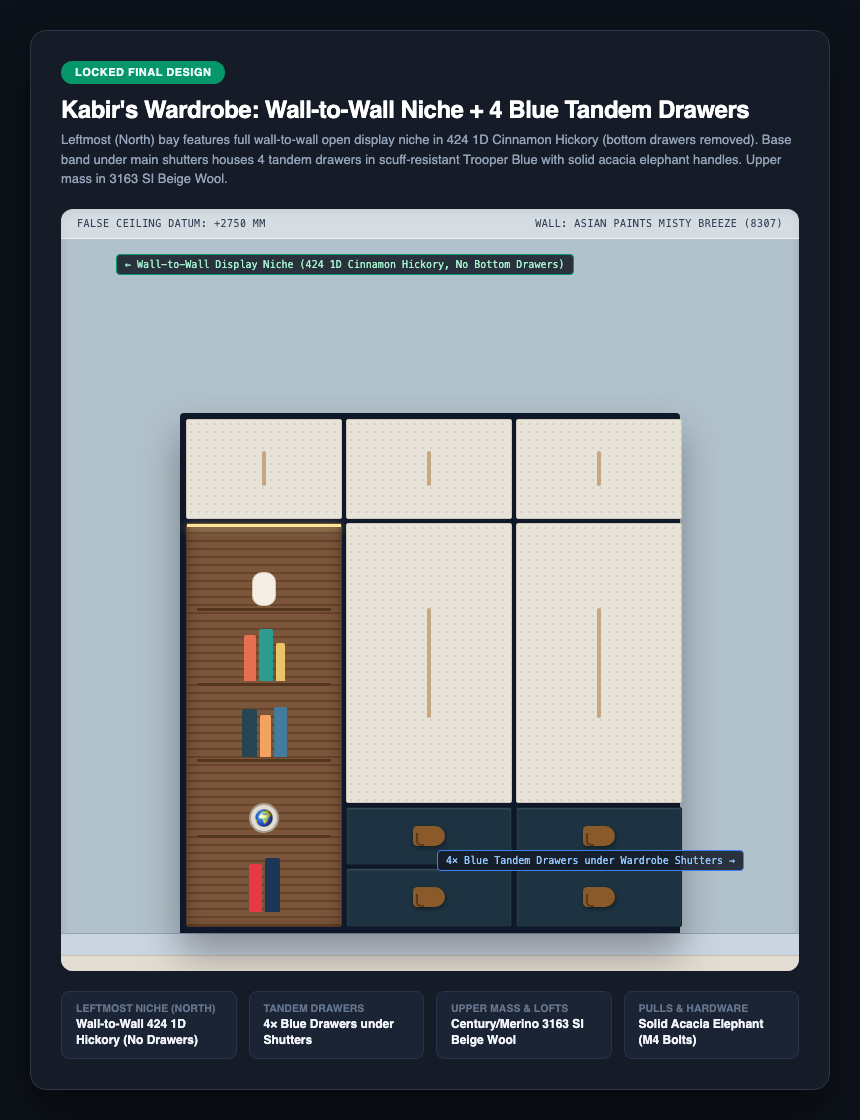
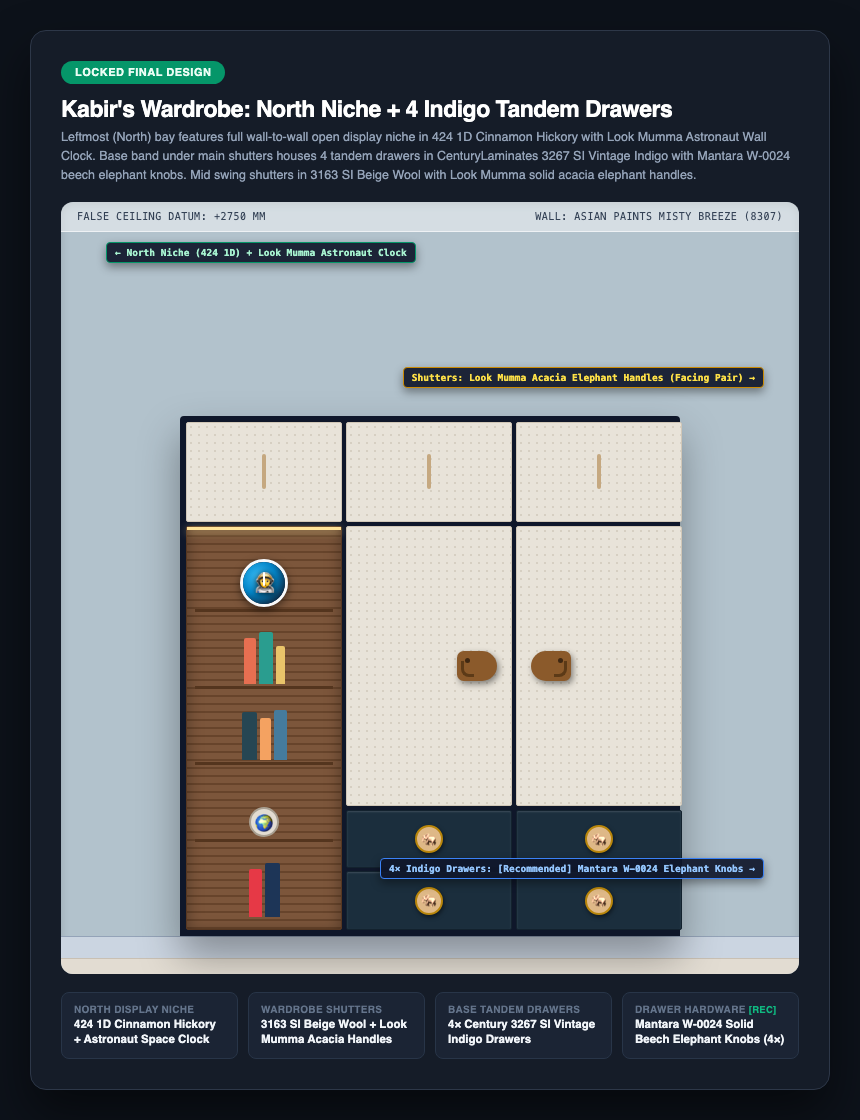
sync: update Project U notes (2026-11-06 22:32:08)

diff --git a/content/rooms/kabir-room.md b/content/rooms/kabir-room.md
@@ -4,7 +4,7 @@ aliases: [rooms-br02, br-02, kabirs-room, u-br02]
 tags: [u-setup, rooms, kids-room, study]
 status: evergreen
 created: 2026-10-10
-updated: 2026-10-31
+updated: 2026-11-06
 ---
 
 [[index|← Back to Home Overview]]
@@ -20,15 +20,17 @@ Dedicated study, reading, and creative play space for Kabir (age 6, Grade 1 at K
 
 ## Kabir's Room Hardware & Furnishings
 
-| Need | Tier 1: High-Quality VFM | Tier 2: High-Quality Unconstrained | Top Failure Mode & Reddit Insight |
-| :--- | :--- | :--- | :--- |
-| **KBR Wardrobe (Homz Locked)** | **[Recommended]** **Locked Design: North Niche + Indigo Tandem Drawers:** Entire wardrobe and lofts in CenturyLaminates `3163 SI Beige Wool`; leftmost (North) bay features full wall-to-wall open `424 1D Cinnamon Hickory` display niche beside study desk (bottom drawers removed); base band under wardrobe shutters houses 4 tandem drawers in CenturyLaminates `3267 SI Vintage Indigo` (scuff protection) with Look Mumma solid acacia elephant handles. | [Greenlam AFX Neutral + Solid Woodgrain Niche + FENIX](https://www.google.com/search?q=Greenlam+AFX+Neutral+%2B+Oak+Niche+%2B+FENIX) (Century Club Prime, Blum BLUMOTION soft-close channels, ~₹1.85L) / [Merino Luvih Super-Matt + Blum LEGRABOX](https://www.google.com/search?q=Merino+Luvih+Super-Matt+%2B+Blum+LEGRABOX) (Finger-safe soft-close dampers, ~₹1.75L) | Cartoon laminates date poorly by age 9; grounding the base in scuff-resistant `3267 SI` Vintage Indigo protects against kicks while `3163 SI` Beige Wool maintains whole-house Japandi continuity and single-brand Century procurement. |
-| **Child Daybed / Sleeper** | [Orange Tree / Spin Solid Hardwood Daybed with Trundle](https://www.google.com/search?q=Orange+Tree+Solid+Wood+Daybed+with+Trundle) (Kiln-dried solid wood, `36×75 in` full single mattress + trundle, ~₹48,000) / [IKEA HEMNES Day-Bed Frame with 3 Drawers](https://www.ikea.com/in/en/p/hemnes-day-bed-frame-with-3-drawers-white-70349327/) (₹36,990) | **[Recommended]** [Alankaram Junior Solid Teak Daybed with Trundle](https://www.google.com/search?q=Alankaram+Junior+Teak+Daybed+with+Trundle) (Solid seasoned teak, `36×75 in` full single mattress sizing for age 6–12 sleep transition, rounded child-safe bullnose edges, pull-out trundle, ₹72,000) | Reject `Boingg!` (uses 18mm MDF/HDF and pine, not teak) and `IKEA BRIMNES` (particleboard slats snap under child jumping). Full `36×75 in` single mattress sizing allows an adult to lie comfortably beside Kabir during his age 7–9 transition. |
-| **Kids Reading Pouffe / Sleeper** | **[Recommended]** [IKEA KOMPISHÄNG Mattress/Pouffe (80×200 cm)](https://www.ikea.com/in/en/p/kompishaeng-mattress-pouffe-beige-red-60628767/) (13 cm pocket springs, tri-fold pouffe 80×68 cm, ₹12,990) / [IKEA SLÄKT Folding Mattress](https://www.ikea.com/in/en/p/slaekt-folding-mattress-grey-90362964/) (Pouf/floor bed, washable cover, 62×193 cm, ₹8,990) | [BoConcept Xtra Footstool with Sleeping Function](https://www.boconcept.com/en-in/p/xtra/603030-603011.html) (70×70 cm Danish ottoman, concealed steel folding frame, 70×200 cm raised bed, ₹85,950) / [Karup Design Hippo Chair-Futon](https://www.google.com/search?q=Karup+Design+Hippo+Chair-Futon) (Danish Japandi design, folds from low armchair to 90×200 cm floor bed, ~₹48,000) | KOMPISHÄNG sleeps on floor at 1/7th price; BoConcept lifts sleeper 42cm off tile on steel frame in bespoke Danish upholstery, but requires adult to unfold (24 kg). |
-| **Ergonomic Study Desk** | **[Recommended]** [IKEA BERGLÄRKA Tiltable Desk](https://www.google.com/search?q=IKEA+BERGL%C3%84RKA+Tiltable+Desk) (Manual crank 52–75cm, tiltable top, EN 17191 child-safe, ₹14,990) / [IKEA PIPLÄRKA Adjustable Desk](https://www.ikea.com/in/en/p/piplaerka-desk-tiltable-white-50530752/) (50–74 cm height in 5 steps, compact 80×63 cm, ₹7,990) | [Moll Champion Ergonomic Children Desk](https://moll-funktion.com/en/product/champion/) (German precision gas lift, split tilt desk top, ~₹85,000) / [Moll Winner Compact Children Desk](https://moll-funktion.com/en/product/winner/) (10-position manual tilt, adjustable 53–82 cm, cable duct, ~₹68,000) | Motorized sit-stand desks have high minimum heights ($\ge 62\text{ cm}$) and pinch hazards; manual child-certified desks drop to 52 cm. |
-| **Growth Desk Chair** | **[Recommended]** [IKEA LOBERGET / SIBBEN Children Desk Chair](https://www.ikea.com/in/en/p/loberget-sibben-childrens-desk-chair-white-s79337746/) (Adjustable seat height 32–43 cm, zero rolling wheels, ₹2,490) + [Ergonomic Footrest Cushion](https://www.amazon.in/dp/B08L6XB7WN) (₹1,499) | **[Recommended Growth]** [IKEA VIMUND Children Ergonomic Chair](https://www.ikea.com/in/en/p/vimund-childrens-desk-chair-bright-turquoise-30424352/) (Pressure-sensitive auto-locking brake castors, adjustable seat depth & back, ₹6,990) / [Moll Maximo 15](https://moll-funktion.com/en/product/maximo/) (~₹45,000) | Free-rolling swivel chairs turn into toys during homework; VIMUND pressure-sensitive castors lock automatically when seated. Ensure feet rest flat on floor or footrest. |
-| **South Wall 3D World Map** | **[Recommended]** [Woodsify 3D Wooden World Map Multicolor (Non-LED, Size L)](https://www.woodsify.com/products/3d-wooden-world-map-multicolour?variant=42093391315150) (150×90 cm, birch plywood, ₹9,540) / [WoodScape 3D Multilayer Birch Map](https://www.google.com/search?q=WoodScape+3D+Multilayer+Birch+Map) (140×85 cm, natural wood stains, ₹8,990) | [Enjoy The Wood 3D Birch Map with Push Pins](https://enjoythewood.com/products/3d-wooden-world-map-multicolor) (~$249 / ₹21,000, non-toxic stains, flag pins) / [MiMi Innovations 3D Solid Hardwood Topographic World Map](https://www.google.com/search?q=MiMi+Innovations+3D+Hardwood+Topographic+World+Map) (Hand-stained oak/walnut relief, ~₹26,000) | Direct adhesive tape ruins paint during removal; mount onto 6mm BWP ply backer board with French cleats. Detail in [[art-wall-decor]]. |
-| **Wardrobe & Tandem Pulls (Wood Elephant)** | **[Recommended]** [Look Mumma Hand-Carved Acacia Elephant Handles](https://lookmumma.com) (Natural waxed solid acacia wood, 96mm CC / 120×95mm, through-bolted with M4 machine screws into 18mm BWP ply, ₹1,450 / pair) / [Pinch of Pretty Wood Pulls](https://pinchofpretty.com) (~₹2,999) | [Homz Bespoke Hand-Carved Teak Elephant Pulls](https://www.google.com/search?q=Hand-Carved+Teak+Elephant+Bar+Pulls) (Crafted from CP teak offcuts, ~₹1,600 labor) / [Mantara W-0024 Beech Knob](https://mantara.in/products/mantara-w-0024-elephant) (Solid beech, 50mm, ₹649 ea) | Soft pine/MDF decorative handles split under child pulling force; solid acacia handles through-bolted with M4 machine bolts into 18mm BWP ply will never pull out. |
+| Need                                        | Tier 1: High-Quality VFM                                                                                                                                                                                                                                                                                                                                                                                                                                        | Tier 2: High-Quality Unconstrained                                                                                                                                                                                                                                                                                                                                                        | Top Failure Mode & Reddit Insight                                                                                                                                                                                                                |
+| :------------------------------------------ | :-------------------------------------------------------------------------------------------------------------------------------------------------------------------------------------------------------------------------------------------------------------------------------------------------------------------------------------------------------------------------------------------------------------------------------------------------------------- | :---------------------------------------------------------------------------------------------------------------------------------------------------------------------------------------------------------------------------------------------------------------------------------------------------------------------------------------------------------------------------------------- | :----------------------------------------------------------------------------------------------------------------------------------------------------------------------------------------------------------------------------------------------- |
+| **KBR Wardrobe (Homz Locked)**              | **[Recommended]** **Locked Design: North Niche + Indigo Tandem Drawers:** Entire wardrobe and lofts in CenturyLaminates `3163 SI Beige Wool`; leftmost (North) bay features full wall-to-wall open `424 1D Cinnamon Hickory` display niche beside study desk (bottom drawers removed) housing the Look Mumma Astronaut Wall Clock; base band under wardrobe shutters houses 4 tandem drawers in CenturyLaminates `3267 SI Vintage Indigo` (scuff protection) with Mantara W-0024 solid beech elephant knobs; upper mid swing shutters fitted with Look Mumma solid acacia elephant handles. | [Greenlam AFX Neutral + Solid Woodgrain Niche + FENIX](https://www.google.com/search?q=Greenlam+AFX+Neutral+%2B+Oak+Niche+%2B+FENIX) (Century Club Prime, Blum BLUMOTION soft-close channels, ~₹1.85L) / [Merino Luvih Super-Matt + Blum LEGRABOX](https://www.google.com/search?q=Merino+Luvih+Super-Matt+%2B+Blum+LEGRABOX) (Finger-safe soft-close dampers, ~₹1.75L)                   | Cartoon laminates date poorly by age 9; grounding the base in scuff-resistant `3267 SI` Vintage Indigo protects against kicks while `3163 SI` Beige Wool maintains whole-house Japandi continuity and single-brand Century procurement.          |
+| **Child Daybed / Sleeper**                  | [Orange Tree / Spin Solid Hardwood Daybed with Trundle](https://www.google.com/search?q=Orange+Tree+Solid+Wood+Daybed+with+Trundle) (Kiln-dried solid wood, `36×75 in` full single mattress + trundle, ~₹48,000) / [IKEA HEMNES Day-Bed Frame with 3 Drawers](https://www.ikea.com/in/en/p/hemnes-day-bed-frame-with-3-drawers-white-70349327/) (₹36,990)                                                                                                       | **[Recommended]** [Alankaram Junior Solid Teak Daybed with Trundle](https://www.google.com/search?q=Alankaram+Junior+Teak+Daybed+with+Trundle) (Solid seasoned teak, `36×75 in` full single mattress sizing for age 6–12 sleep transition, rounded child-safe bullnose edges, pull-out trundle, ₹72,000)                                                                                  | Reject `Boingg!` (uses 18mm MDF/HDF and pine, not teak) and `IKEA BRIMNES` (particleboard slats snap under child jumping). Full `36×75 in` single mattress sizing allows an adult to lie comfortably beside Kabir during his age 7–9 transition. |
+| **Kids Reading Pouffe / Sleeper**           | **[Recommended]** [IKEA KOMPISHÄNG Mattress/Pouffe (80×200 cm)](https://www.ikea.com/in/en/p/kompishaeng-mattress-pouffe-beige-red-60628767/) (13 cm pocket springs, tri-fold pouffe 80×68 cm, ₹12,990) / [IKEA SLÄKT Folding Mattress](https://www.ikea.com/in/en/p/slaekt-folding-mattress-grey-90362964/) (Pouf/floor bed, washable cover, 62×193 cm, ₹8,990)                                                                                                | [BoConcept Xtra Footstool with Sleeping Function](https://www.boconcept.com/en-in/p/xtra/603030-603011.html) (70×70 cm Danish ottoman, concealed steel folding frame, 70×200 cm raised bed, ₹85,950) / [Karup Design Hippo Chair-Futon](https://www.google.com/search?q=Karup+Design+Hippo+Chair-Futon) (Danish Japandi design, folds from low armchair to 90×200 cm floor bed, ~₹48,000) | KOMPISHÄNG sleeps on floor at 1/7th price; BoConcept lifts sleeper 42cm off tile on steel frame in bespoke Danish upholstery, but requires adult to unfold (24 kg).                                                                              |
+| **Ergonomic Study Desk**                    | **[Recommended]** [IKEA BERGLÄRKA Tiltable Desk](https://www.google.com/search?q=IKEA+BERGL%C3%84RKA+Tiltable+Desk) (Manual crank 52–75cm, tiltable top, EN 17191 child-safe, ₹14,990) / [IKEA PIPLÄRKA Adjustable Desk](https://www.ikea.com/in/en/p/piplaerka-desk-tiltable-white-50530752/) (50–74 cm height in 5 steps, compact 80×63 cm, ₹7,990)                                                                                                           | [Moll Champion Ergonomic Children Desk](https://moll-funktion.com/en/product/champion/) (German precision gas lift, split tilt desk top, ~₹85,000) / [Moll Winner Compact Children Desk](https://moll-funktion.com/en/product/winner/) (10-position manual tilt, adjustable 53–82 cm, cable duct, ~₹68,000)                                                                               | Motorized sit-stand desks have high minimum heights ($\ge 62\text{ cm}$) and pinch hazards; manual child-certified desks drop to 52 cm.                                                                                                          |
+| **Growth Desk Chair**                       | **[Recommended]** [IKEA LOBERGET / SIBBEN Children Desk Chair](https://www.ikea.com/in/en/p/loberget-sibben-childrens-desk-chair-white-s79337746/) (Adjustable seat height 32–43 cm, zero rolling wheels, ₹2,490) + [Ergonomic Footrest Cushion](https://www.amazon.in/dp/B08L6XB7WN) (₹1,499)                                                                                                                                                                  | **[Recommended Growth]** [IKEA VIMUND Children Ergonomic Chair](https://www.ikea.com/in/en/p/vimund-childrens-desk-chair-bright-turquoise-30424352/) (Pressure-sensitive auto-locking brake castors, adjustable seat depth & back, ₹6,990) / [Moll Maximo 15](https://moll-funktion.com/en/product/maximo/) (~₹45,000)                                                                    | Free-rolling swivel chairs turn into toys during homework; VIMUND pressure-sensitive castors lock automatically when seated. Ensure feet rest flat on floor or footrest.                                                                         |
+| **South Wall 3D World Map**                 | **[Recommended]** [Woodsify 3D Wooden World Map Multicolor (Non-LED, Size L)](https://www.woodsify.com/products/3d-wooden-world-map-multicolour?variant=42093391315150) (150×90 cm, birch plywood, ₹9,540) / [WoodScape 3D Multilayer Birch Map](https://www.google.com/search?q=WoodScape+3D+Multilayer+Birch+Map) (140×85 cm, natural wood stains, ₹8,990)                                                                                                    | [Enjoy The Wood 3D Birch Map with Push Pins](https://enjoythewood.com/products/3d-wooden-world-map-multicolor) (~$249 / ₹21,000, non-toxic stains, flag pins) / [MiMi Innovations 3D Solid Hardwood Topographic World Map](https://www.google.com/search?q=MiMi+Innovations+3D+Hardwood+Topographic+World+Map) (Hand-stained oak/walnut relief, ~₹26,000)                                 | Direct adhesive tape ruins paint during removal; mount onto 6mm BWP ply backer board with French cleats. Detail in [[art-wall-decor]].                                                                                                           |
+| **Wardrobe Shutter Handles (Acacia Elephant)** | **[Recommended]** [Look Mumma Hand-Carved Acacia Elephant Handles](https://www.amazon.in/Look-Mumma-Elephant-Premium-Cupboard/dp/B0FJFXNG7K/) (Natural waxed solid acacia wood, 96mm CC / 120×95mm, through-bolted with M4 machine screws into 18mm BWP ply, ₹1,450 / pair) / [Pinch of Pretty Wood Pulls](https://pinchofpretty.com) (~₹2,999)                                                                                                                                                                     | [Homz Bespoke Hand-Carved Teak Elephant Pulls](https://www.google.com/search?q=Hand-Carved+Teak+Elephant+Bar+Pulls) (Crafted from CP teak offcuts, ~₹1,600 labor)                                                                                                                                                                                                                                    | Soft pine/MDF decorative handles split under child pulling force; solid acacia handles through-bolted with M4 machine bolts into 18mm BWP ply will never pull out.                                                                               |
+| **Wardrobe Tandem Drawer Knobs (Beech Elephant)** | **[Recommended]** [Mantara W-0024 Elephant Knob](https://www.mantara.in/products/mantara-w-0024-elephant) (Solid natural beech wood, 50mm single-point knob with brass threaded insert, ₹649 ea, 4 units)                                                                                                                                                                                                                                                  | [Mantara Safari Animal Knobs Collection](https://www.mantara.in) (Solid turned wood, brass insert, ~₹750 ea) / [Häfele Zinc Animal Knobs](https://www.hafeleindia.com) (~₹450 ea)                                                                                                                                                                                                                     | Drawers endure higher pull frequencies than tall shutters; solid beech wood with factory brass inserts prevents thread stripping under rapid yank loads.                                                                                         |
+| **Study Wall Clock (Analog Learning)**      | **[Recommended]** [Look Mumma Whimsical Astronaut Outer Space Wall Clock](https://lookmumma.com/products/whimsical-astronaut-outer-space-wall-clock) (10" silent sweep quartz, bold Arabic numerals, cosmic outer space motif, ₹899) / [IKEA TJINGA Wall Clock](https://www.ikea.com/in/en/p/tjinga-wall-clock-white-30541484/) (Silent quartz, ₹199)                                                                                                 | [Seiko Kids Learning Wall Clock](https://www.google.com/search?q=Seiko+Kids+Learning+Wall+Clock) (Silent sweep, color-coded hour/minute hands, ₹3,200) / [Lemnos Fun Pun Education Clock](https://www.google.com/search?q=Lemnos+Fun+Pun+Clock) (Japanese pedagogical design, ~$110 / ₹9,200)                                                                                                       | Stepping-quartz mechanisms disturb child sleep in quiet bedrooms; mandate continuous silent-sweep movements. High-contrast Arabic numerals foster early analog time-reading literacy.                                                            |
 
 ---
 
@@ -39,7 +41,7 @@ Configured layout: SE entrance door, NW washroom door, NE wardrobe, North wall d
 * **Sleep Alignment (South Wall, Head to East):** Daybed with pull-out guest trundle lined along South wall, buffered from the SE entrance door swing by a 30 cm privacy wing. Kabir sleeps with head strictly to the East (classical student bio-rhythm alignment) and feet pointing West.
 * **Study Alignment (North Wall, Right of Window):** IKEA BERGLÄRKA desk lined against the solid North wall to the right of the window. Kabir sits facing North. Glare-free North daylight enters over his left shoulder without hand shadows. School worksheets and printing are managed centrally from [[study-guest-room]] to keep Kabir's desk and wardrobe niche free of cords and ink.
 * **Reading Nook (North-West, Left of Window):** Low-profile IKEA KOMPISHÄNG tri-fold pouffe/mattress positioned in the NW zone by the glazing. Natural reading light; preserves clear 900 mm walk to NW washroom door.
-* **Wardrobe (North-East, Along East Wall):** Homz wardrobe running length across East wall (shutters open West) in CenturyLaminates `3163 SI Beige Wool`. Leftmost (North) bay features a wall-to-wall open `424 1D Cinnamon Hickory` display niche beside Kabir's study desk, free of bottom drawers. Base band under closed wardrobe shutters fitted with 4 tandem drawers in CenturyLaminates `3267 SI Vintage Indigo`.
+* **Wardrobe (North-East, Along East Wall):** Homz wardrobe running length across East wall (shutters open West) in CenturyLaminates `3163 SI Beige Wool`. Leftmost (North) bay features a wall-to-wall open `424 1D Cinnamon Hickory` display niche beside Kabir's study desk housing the Look Mumma Astronaut Wall Clock and books, free of bottom drawers. Mid swing shutters fitted with Look Mumma solid acacia elephant handles; base band under closed wardrobe shutters fitted with 4 tandem drawers in CenturyLaminates `3267 SI Vintage Indigo` with Mantara W-0024 solid beech elephant knobs.
 
 ![Kabir Wardrobe Locked North Niche](assets/decor/kabir-wardrobe-final-north-niche.png)
 * **Activity Zone & World Map (South-West / West Wall):** Clear floor area in South-West for play and movement; Woodsify 3D Birch World Map mounted on solid West wall via French cleats on 6mm BWP ply backer board.

diff --git a/content/art-wall-decor.md b/content/art-wall-decor.md
@@ -4,7 +4,7 @@ aliases: [u-setup-art-decor, art-decor, u-decor, art-styling, u-art]
 tags: [u-setup, decor, art, styling]
 status: evergreen
 created: 2026-10-16
-updated: 2026-11-03
+updated: 2026-11-06
 ---
 
 [[index|← Back to Home Overview]] · [[lighting-ambience]]
@@ -32,6 +32,7 @@ Master specification for curated art, GI-certified authentic Indian craft, museu
 | Need | Image / Zone | Tier 1: High-Quality VFM | Tier 2: High-Quality Unconstrained | Top Failure Mode & Reddit Insight |
 | :--- | :--- | :--- | :--- | :--- |
 | **South Wall 3D World Map** | <img src="assets/decor/woodsify-world-map.jpg" alt="Woodsify 3D World Map" width="100"> | **[Recommended]** [Woodsify 3D Wooden World Map Multicolor (Non-LED, Size L)](https://www.woodsify.com/products/3d-wooden-world-map-multicolour?variant=42093391315150) (150×90 cm, birch plywood, ₹9,540) / [WoodScape 3D Multilayer Birch Map](https://www.google.com/search?q=WoodScape+3D+Multilayer+Birch+Map) (140×85 cm, natural wood stains, ₹8,990) | [Enjoy The Wood 3D Birch Map with Push Pins](https://enjoythewood.com/products/3d-wooden-world-map-multicolor) (~$249 / ₹21,000, non-toxic stains, flag pins) / [MiMi Innovations 3D Solid Hardwood Topographic World Map](https://www.google.com/search?q=MiMi+Innovations+3D+Hardwood+Topographic+World+Map) (Hand-stained oak/walnut relief, ~₹26,000) / [CityWood Handcrafted Multi-Layer Architectural Map](https://www.google.com/search?q=CityWood+Multi-Layer+Architectural+Map) (Laser-cut birch relief, ~₹32,000) | Double-sided 3M foam tape rips acrylic emulsion and gypsum paper off the wall during removal; glue map pieces onto a 6mm BWP ply backer board hung via French cleats. |
+| **Kabir Space Clock (Analog Learning)** | <img src="assets/decor/kabir-wardrobe-final-north-niche.png" alt="Kabir Space Clock" width="100"> | **[Recommended]** [Look Mumma Whimsical Astronaut Outer Space Wall Clock](https://lookmumma.com/products/whimsical-astronaut-outer-space-wall-clock) (10" silent sweep quartz movement, bold Arabic numerals, cosmic astronaut motif, ₹899) / [IKEA TJINGA Analog Wall Clock](https://www.ikea.com/in/en/p/tjinga-wall-clock-white-30541484/) (Silent quartz, ₹199) | [Seiko Kids Learning Wall Clock](https://www.google.com/search?q=Seiko+Kids+Learning+Wall+Clock) (Silent sweep, color-differentiated hour/minute hands, ₹3,200) / [Lemnos Fun Pun Analog Education Clock](https://www.google.com/search?q=Lemnos+Fun+Pun+Clock) (Japanese minimalist pedagogical clock by Yoko Dobashi, ~$110 / ₹9,200) | Ticking quartz mechanisms disturb child sleep in quiet bedrooms; mandate continuous silent-sweep movements. Mount in North wardrobe display niche or above desk at 1,400 mm AFF for clear reading angle. |
 | **Study Task & Spelling Board** | <img src="assets/decor/rustle-menu-board.jpg" alt="Rustle Menu Board" width="100"> | **[Recommended]** [Rustle Stylish Wooden Wall Menu Board (Large)](https://www.rustle.in/product-page/stylish-wooden-menu-holder?selectionIds=3) (Teak rails + birch ply tiles, 8-strip, ₹8,500) / [IKEA SVENSÅS Pegboard & Magnetic Memo Combinations](https://www.google.com/search?q=IKEA+SVENS%C3%85S+Pegboard+%26+Magnetic+Memo+Combinations) (Powder-coated steel + cork, ₹2,990) | [George & Willy Wooden Letter Board](https://www.google.com/search?q=George+%26+Willy+Wooden+Letter+Board) (Architectural American ash rails, laser-cut timber tiles, ~$180 / ₹15,500) / [Three by Three Seattle / Chatboard Danish Magnetic Glass & Oak Board](https://www.google.com/search?q=Three+by+Three+Seattle) (Tempered non-ghosting magnetic glass, ~₹22,000) / [Spin Modular Perforated Steel & Solid Ash Wall Organizer](https://www.google.com/search?q=Spin+Perforated+Steel+%26+Ash+Wall+Organizer) (~₹12,500) | Cheap felt letter boards sag and shed fibers within 6 months; solid teak channel rails allow smooth letter sliding and zero dust trapping. |
 | **Low-Sensory Bedtime Wall Art** | Master Bedroom | **[Recommended]** [Calcutta Art Gallery / Artzolo Framed Minimalist Linen & Botanical Serigraphs (Pair)](https://www.google.com/search?q=Calcutta+Art+Gallery) (Solid teak float frame, non-reflective matte acrylic, ₹12,500) / [Freedom Tree Tactile Handwoven Textile Wall Hanging](https://www.google.com/search?q=Freedom+Tree+Tactile+Handwoven+Textile+Wall+Hanging) (Acoustic warmth, zero glass glare, ₹9,800) | [Jaipur Rugs / Obeetee Framed Hand-Knotted Silk & Wool Wall Tapestry](https://www.google.com/search?q=Jaipur+Rugs+%2F+Obeetee+Framed+Hand-Knotted+Silk+%26+Wool+Wall+Tapestry) (Zero reflection, absorbs bedroom slap-echo, ~₹38,000) / [Oorjaa Handcrafted Crushed Lokta Paper & Natural Fiber Sculptural Wall Relief](https://www.google.com/search?q=Oorjaa+Crushed+Lokta+Paper+%26+Natural+Fiber+Sculptural+Wall+Relief) (~₹32,000) / [Kaziban / Studioekko Custom Wabi-Sabi Mineral Plaster Triptych in Solid Teak Frame](https://www.google.com/search?q=Kaziban+%2F+Studioekko+Custom+Wabi-Sabi+Mineral+Plaster+Triptych+in+Solid+Teak+Frame) (~₹45,000) | Heavy glass frames mounted over headboards risk shattering onto sleepers if hooks fail; hang only lightweight textile or matte-acrylic frames above beds using dual keyhole cleats. |
 | **Sacred Gurmukhi Calligraphy & Brass Accents** | BR-03 Home Gurudwara | **[Recommended]** [Handcrafted Solid Brass Ik Onkar / Mool Mantar Wall Plaque (18")](https://www.google.com/search?q=Handcrafted+Solid+Brass+Ik+Onkar+%2F+Mool+Mantar+Wall+Plaque) (Brushed antique brass, non-glare matte lacquer, ₹4,500) / [Sikh Virasat Framed Golden Temple Heritage Archival Print](https://www.google.com/search?q=Sikh+Virasat+Framed+Golden+Temple+Heritage+Archival+Print) (Acid-free mount, solid wood frame, ₹6,800) | [Amritsar Taksali Hand-Embossed Copper/Brass Repoussé Mool Mantar Panel in Solid Burma Teak Frame](https://www.google.com/search?q=Amritsar+Taksali+Hand-Embossed+Copper) (Traditional gold-leaf/brass relief, ~₹24,000) / [Bespoke Hand-Lettered Gurmukhi Shabad Calligraphy on Archival Handmade Khadi Paper + Tru-Vue UV Glass](https://www.google.com/search?q=Bespoke+Hand-Lettered+Gurmukhi+Shabad+Calligraphy+on+Archival+Handmade+Khadi+Paper+%2B+Tru-Vue+UV+Glass) (~₹28,000) / [Alankaram CNC-Carved Solid Teak & Backlit Warm 2700K Brass Jali Ik Onkar Panel](https://www.google.com/search?q=Alankaram+CNC-Carved+Solid+Teak+%26+Backlit+Warm+2700K+Brass+Jali+Ik+Onkar+Panel) (~₹35,000) | Unlacquered brass plaques oxidize with dark fingerprints from handling; specify factory clear matte polyurethane lacquer and indirect 2700K wall-washing to prevent mirror glare. |

diff --git a/content/curtains-paint-finishes.md b/content/curtains-paint-finishes.md
@@ -45,7 +45,7 @@ Cohesive Japandi architectural palette calibrated for Floor 42 high-rise natural
 | **Dining Vanity & Bookshelf** | Bookshelf: `424 1D Cinnamon Hickory` · Walk-in: `3163 SI Beige Wool` | <img src="assets/swatches/laminate-424-cinnamon-hickory.png" alt="Cinnamon Hickory" width="115"> <img src="assets/swatches/laminate-3163-beige-wool.png" alt="Beige Wool" width="115"> | Common vanity with **Robot Vacuum bay**; 6mm BWP ply + 1mm laminate hidden doors (47mm total) | 4× SS304 ball-bearing hinges on hidden doors + copper-free dome mirror |
 | **Kitchen Cabinets** | **Base:** `3174 LU Brown Sugar`<br>**Wall & Lofts:** **Warm Off-White (`#F4F2EB`)** | <img src="assets/swatches/laminate-3174-brown-sugar.png" alt="Base: Brown Sugar 3174 LU" width="115"> <img src="assets/swatches/laminate-08-off-white.png" alt="Wall & Lofts: Off-White #F4F2EB" width="115"> | Light-shade Indian granite worktop (owner-sourced) + `0.8 mm Off-White` liner | 9× Hettich/Blum soft-close tandem drawers + G-profile / edge pulls |
 | **Master Suite & Wardrobes** | `3163 SI Beige Wool` (Wardrobes & Dresser) | <img src="assets/swatches/laminate-3163-beige-wool.png" alt="Beige Wool" width="115"> | Tall dresser with full-height dome mirror (bed-back in Morning Glory 0765 Soft Matte) | [Spruce & Pop Claro Solid Brass](https://spruceandpop.com/products/claro-antique-brass-knurled-cabinet-drawer-knob-and-handle) in Brushed Satin Brass (256mm doors, 128mm drawers) + Blum soft-close |
-| **BR-02 Kabir's Wardrobe** | `3163 SI Beige Wool` (Entire wardrobe & lofts) | <img src="assets/swatches/laminate-3163-beige-wool.png" alt="Beige Wool" width="115"> | Leftmost Niche: Wall-to-wall `424 1D Cinnamon Hickory` (no bottom drawers)<br>Base Band: 4 tandem drawers in **CenturyLaminates `3267 SI` Vintage Indigo**<br><img src="assets/swatches/laminate-424-cinnamon-hickory.png" alt="Cinnamon Hickory" width="105"> <img src="assets/swatches/laminate-3267-vintage-indigo.png" alt="3267 SI Vintage Indigo" width="105"> | Look Mumma solid acacia elephant handles (M4 machine bolts) + Blum soft-close |
+| **BR-02 Kabir's Wardrobe** | `3163 SI Beige Wool` (Entire wardrobe & lofts) | <img src="assets/swatches/laminate-3163-beige-wool.png" alt="Beige Wool" width="115"> | Leftmost Niche: Wall-to-wall `424 1D Cinnamon Hickory` (no bottom drawers)<br>Base Band: 4 tandem drawers in **CenturyLaminates `3267 SI` Vintage Indigo**<br><img src="assets/swatches/laminate-424-cinnamon-hickory.png" alt="Cinnamon Hickory" width="105"> <img src="assets/swatches/laminate-3267-vintage-indigo.png" alt="3267 SI Vintage Indigo" width="105"> | Look Mumma solid acacia elephant handles (shutters) + Mantara W-0024 beech elephant knobs (drawers) + Blum soft-close |
 
 ---
 

diff --git a/content/cabinetry-woodwork.md b/content/cabinetry-woodwork.md
@@ -42,7 +42,9 @@ Master hardware schedule for all bedroom wardrobes and built-in casegoods. Sourc
 | **BR-03 Gurudwara** | GBR-2 Laminate Swing Doors | Spruce & Pop Claro Pull (₹2,275 ea) | Brushed Warm Gold PVD | 256mm CC (295mm L × 35mm P) | 2 |
 | **BR-03 Gurudwara** | GBR-2 Center Glass Door | Slim Anodized Profile Edge (Included) | Warm Gold Anodized | Integrated 20mm Aluminum Extrusion | 1 |
 | **BR-03 Gurudwara** | GBR-2 Top Lofts (550mm) | Touch Latch (Included) | Concealed / Internal | Push-to-Open Mechanical | 3 |
-| **BR-02 Kabir** | Mid Swing Shutters | [Look Mumma Carved Elephant](https://lookmumma.com) (₹1,450 / pair) | Natural Waxed Acacia Wood | 120mm W × 95mm H | 2 pairs |
+| **BR-02 Kabir** | Mid Swing Shutters | [Look Mumma Carved Elephant](https://www.amazon.in/Look-Mumma-Elephant-Premium-Cupboard/dp/B0FJFXNG7K/) (₹1,450 / pair) | Natural Waxed Acacia Wood | 96mm CC (120mm W × 95mm H) | 2 pairs |
+| **BR-02 Kabir** | Bottom Tandem Drawers | **[Recommended]** [Mantara W-0024 Elephant Knob](https://www.mantara.in/products/mantara-w-0024-elephant) (₹649 ea) | Solid Natural Beech Wood | 50mm Ø × 28mm P (Single Point) | 4 |
+| **BR-02 Kabir** | Top Lofts (550mm) | Touch Latch (Included) | Concealed / Internal | Push-to-Open Mechanical | 3 |
 
 ---
 
